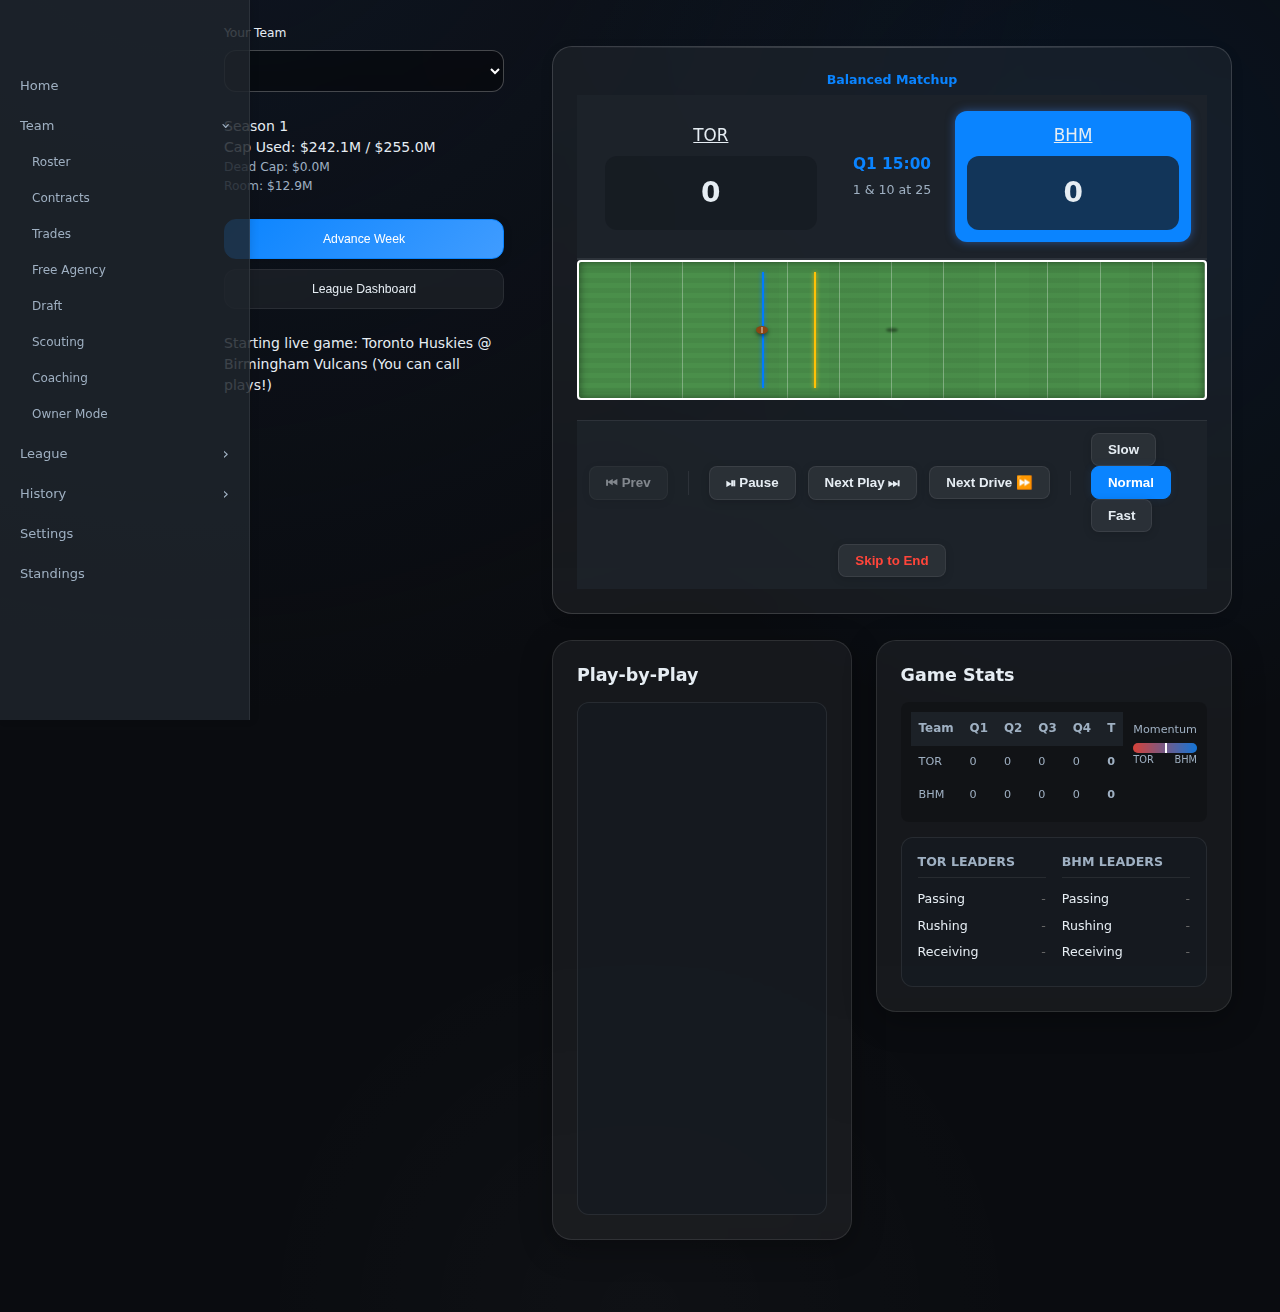
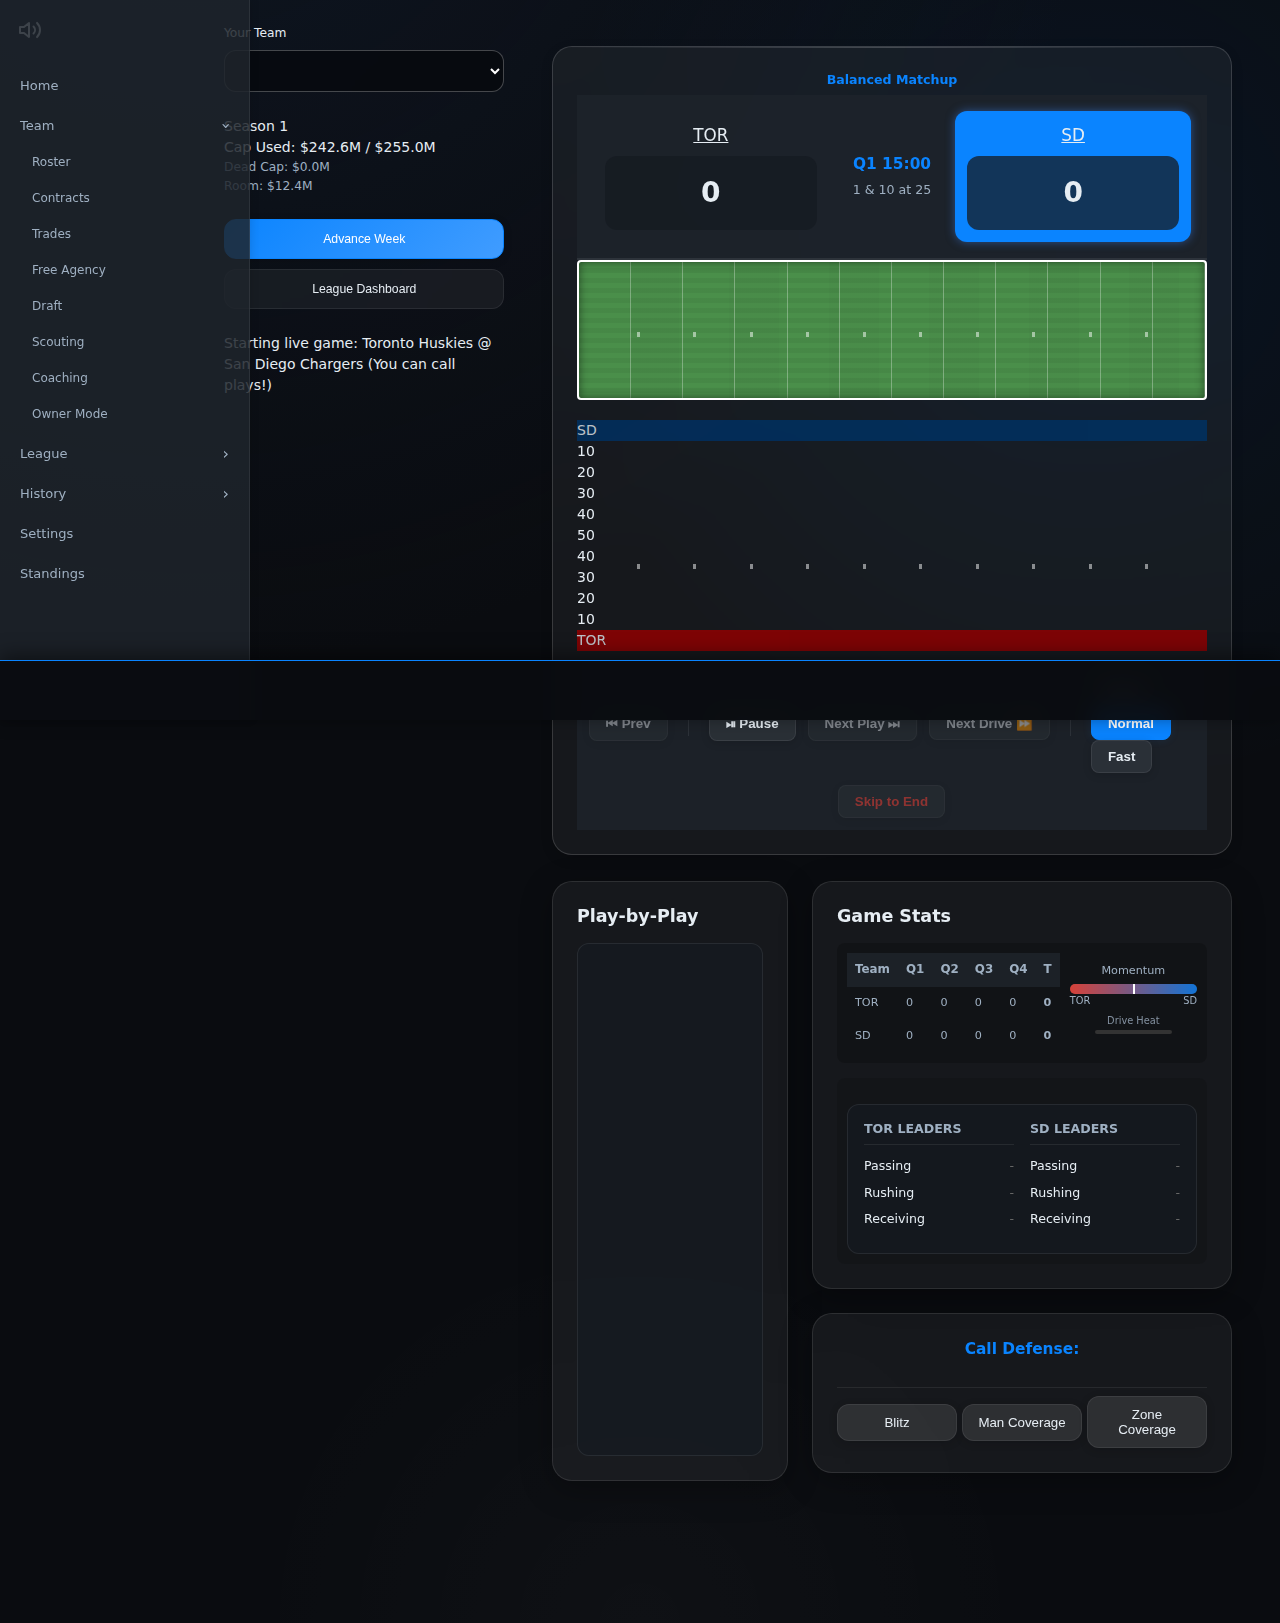
Improve visual polish and feedback in Live Game Viewer
- Added tactile button states with scale and shadow effects.
- Implemented specific visual feedback animations for Touchdowns, Field Goals, Turnovers, and Kicks (flash, celebrate, shield pop).
- Refined game event overlay styles with distinct colors and animations.
- Improved field element transitions using CSS classes for smoother animation and better separation of concerns.
- Standardized `triggerVisualFeedback` calls in `live-game-viewer.js` to match new CSS classes.
- Fixed `race_condition.spec.js` to use correct server port.

diff --git a/ui-enhancements.css b/ui-enhancements.css
@@ -2502,3 +2502,238 @@ body {
 }
 
 /* Ensure animated elements disable transition temporarily via JS, but this base rule handles the 'walk back' */
+
+/* ============================================
+   UI Polish - Tactile Feedback & New Animations
+   ============================================ */
+
+/* Unified Tactile Button Feedback */
+.btn:active,
+.play-call-btn:active,
+.nav-item:active {
+  transform: scale(0.96) translateY(1px) !important;
+  box-shadow: inset 0 2px 5px rgba(0, 0, 0, 0.2) !important;
+  filter: brightness(0.95);
+}
+
+/* Animations for Field Effects */
+@keyframes kick-trail {
+  0% { transform: scale(1); opacity: 0.8; }
+  100% { transform: scale(0.2); opacity: 0; }
+}
+
+@keyframes shield-pop {
+  0% { transform: scale(0.5); opacity: 0; border-width: 0px; }
+  50% { transform: scale(1.2); opacity: 1; border-width: 4px; }
+  100% { transform: scale(1); opacity: 1; border-width: 2px; }
+}
+
+@keyframes goal-celebration {
+  0% { transform: scale(1) rotate(0deg); }
+  25% { transform: scale(1.3) rotate(-10deg); }
+  50% { transform: scale(1.5) rotate(10deg); }
+  75% { transform: scale(1.3) rotate(-10deg); }
+  100% { transform: scale(1) rotate(0deg); }
+}
+
+/* Additional Event Classes */
+.game-event-overlay.defense-stop::before {
+  animation: shield-pop 0.6s cubic-bezier(0.175, 0.885, 0.32, 1.275);
+}
+
+.game-event-overlay.field-goal-made .event-text {
+  animation: goal-celebration 1s ease-out;
+  color: #FFD700;
+  text-shadow: 0 0 20px #FFA500;
+}
+
+/* Additional Game Animations - Added by Day 2 Task */
+@keyframes run-bob {
+  0%, 100% { transform: translate(-50%, -50%); }
+  50% { transform: translate(-50%, -60%); }
+}
+
+.run-bob {
+  animation: run-bob 0.3s infinite ease-in-out;
+}
+
+@keyframes wobble-pass {
+  0% { transform: translate(-50%, -50%) rotate(0deg); }
+  25% { transform: translate(-50%, -50%) rotate(-5deg); }
+  75% { transform: translate(-50%, -50%) rotate(5deg); }
+  100% { transform: translate(-50%, -50%) rotate(0deg); }
+}
+
+.wobble-pass {
+  animation: wobble-pass 0.4s infinite ease-in-out;
+}
+
+@keyframes slide-in-smooth {
+  0% { opacity: 0; transform: translateX(-20px); }
+  100% { opacity: 1; transform: translateX(0); }
+}
+
+.slide-in-smooth {
+  animation: slide-in-smooth 0.5s ease-out forwards;
+}
+
+/* Ensure pulse-score is distinct */
+@keyframes pulse-score-strong {
+  0% { transform: scale(1); color: inherit; }
+  50% { transform: scale(1.5); color: var(--accent); text-shadow: 0 0 20px var(--accent); font-weight: 900; }
+  100% { transform: scale(1); color: inherit; }
+}
+
+.pulse-score-strong {
+  animation: pulse-score-strong 0.6s cubic-bezier(0.175, 0.885, 0.32, 1.275);
+}
+
+/* --- New Player Action Animations --- */
+@keyframes throw-motion {
+  0% { transform: translate(-50%, -50%) rotate(0deg); }
+  25% { transform: translate(-60%, -50%) rotate(-15deg) scale(0.9); } /* Wind up */
+  50% { transform: translate(-40%, -50%) rotate(10deg) scale(1.1); } /* Release */
+  100% { transform: translate(-50%, -50%) rotate(0deg) scale(1); }
+}
+
+.throw-animation {
+  animation: throw-motion 0.5s ease-in-out;
+}
+
+@keyframes kick-follow-through {
+  0% { transform: translate(-50%, -50%) rotate(0deg); }
+  30% { transform: translate(-40%, -50%) rotate(15deg) scale(1.1); }
+  60% { transform: translate(-50%, -50%) rotate(0deg) scale(1); }
+  100% { transform: translate(-50%, -50%); }
+}
+
+.kick-follow-through {
+  animation: kick-follow-through 0.6s ease-out;
+}
+
+/* ============================================
+   Enhanced Visual Feedback (Kick, Goal, Save)
+   ============================================ */
+
+/* Generic Goal Style (Touchdown, Field Goal) */
+.game-event-overlay.goal .event-text {
+  color: #FFD700;
+  text-shadow: 0 0 20px #FFA500, 0 0 40px #FF4500;
+  font-family: 'Arial Black', sans-serif;
+  letter-spacing: 2px;
+  animation: goal-celebration 1s ease-out;
+}
+
+.game-event-overlay.goal::before {
+  content: '🙌'; /* Hands up */
+  display: block;
+  font-size: 5rem;
+  margin-bottom: 10px;
+  animation: popIn 0.5s cubic-bezier(0.175, 0.885, 0.32, 1.275);
+}
+
+/* Specific Kick Style (Punt, Kickoff) */
+.game-event-overlay.kick .event-text {
+  color: #0A84FF;
+  text-shadow: 0 0 15px #0056b3;
+  font-family: 'Arial Black', sans-serif;
+  letter-spacing: 1px;
+}
+
+.game-event-overlay.kick::before {
+  content: '🦶'; /* Foot */
+  display: block;
+  font-size: 4rem;
+  margin-bottom: 10px;
+  animation: kick-flash 0.3s ease-out;
+}
+
+/* Generic Save Style (Turnover, Defense Stop, Safety) */
+.game-event-overlay.save .event-text {
+  color: #FF453A;
+  border: 4px solid #FF453A;
+  background: rgba(0, 0, 0, 0.85);
+  padding: 15px 30px;
+  transform: rotate(-5deg);
+  border-radius: 12px;
+  box-shadow: 0 0 20px rgba(255, 69, 58, 0.6);
+  font-family: 'Courier New', monospace;
+  font-weight: 900;
+}
+
+.game-event-overlay.save::before {
+  content: '🛡'; /* Shield */
+  display: block;
+  font-size: 5rem;
+  margin-bottom: 10px;
+  filter: drop-shadow(0 0 10px rgba(255, 69, 58, 0.5));
+  animation: shield-pop 0.6s cubic-bezier(0.175, 0.885, 0.32, 1.275);
+}
+
+/* Enhancing Button States for tactile feel */
+.control-btn:active, .btn:active {
+  transform: scale(0.96) translateY(1px) !important;
+  box-shadow: inset 0 2px 5px rgba(0,0,0,0.2) !important;
+  filter: brightness(0.95);
+}
+
+.control-btn:hover, .btn:hover {
+  filter: brightness(1.1);
+  transform: translateY(-2px);
+}
+
+/* Fade Out Animation for View Transitions */
+@keyframes fadeOut {
+  from { opacity: 1; transform: translateY(0); }
+  to { opacity: 0; transform: translateY(-10px); }
+}
+
+.fade-out {
+  animation: fadeOut 0.2s ease-out forwards !important;
+  pointer-events: none; /* Prevent clicks during exit */
+}
+
+/* Quarter End Style */
+.game-event-overlay.quarter-end .event-text {
+  color: #fff;
+  text-shadow: 0 0 20px rgba(255, 255, 255, 0.5);
+  font-family: 'Arial Black', sans-serif;
+  letter-spacing: 2px;
+}
+.game-event-overlay.quarter-end::before {
+  content: '⏱';
+  display: block;
+  font-size: 4rem;
+  margin-bottom: 10px;
+}
+
+/* Handoff Animation - QB and RB interaction */
+.handoff-meet {
+    transform: translate(-50%, -50%) scale(0.8) !important;
+    filter: brightness(1.2);
+    transition: transform 0.3s ease-in-out;
+    border-color: #ffd700; /* Gold highlight */
+}
+
+/* Blur Transition */
+.blur-transition {
+    filter: blur(5px);
+    transition: filter 0.3s ease;
+}
+
+/* Huddle Break Animation */
+@keyframes huddle-break {
+    0% { transform: scale(0.5); opacity: 0; }
+    50% { transform: scale(1.1); opacity: 1; }
+    100% { transform: scale(1); opacity: 1; }
+}
+
+.huddle-break {
+    animation: huddle-break 0.5s ease-out;
+}
+
+/* Motion Blur Helper */
+.blur-motion {
+    filter: blur(2px);
+    transition: filter 0.1s;
+}

diff --git a/live-game-viewer.js b/live-game-viewer.js
@@ -472,7 +472,8 @@ class LiveGameViewer {
           // Normal Smooth Update (CSS transition handles it)
           // Ensure transition is active if it was disabled by JS animation previously and not cleared
           if (ballEl.style.transition === 'none') {
-              ballEl.style.transition = 'left 0.6s cubic-bezier(0.22, 1, 0.36, 1)';
+              ballEl.style.transition = ''; // Revert to CSS class transition
+              ballEl.classList.add('smooth-transition');
           }
 
           ballEl.style.left = `${pct}%`;
@@ -2360,7 +2361,7 @@ class LiveGameViewer {
             this.triggerShake('hard');
 
             if (play.result === 'turnover_downs') {
-                this.triggerVisualFeedback('save stop', 'STOPPED!');
+                this.triggerVisualFeedback('save defense-stop', 'STOPPED!');
             } else {
                 this.triggerVisualFeedback('save turnover', 'TURNOVER!');
             }
@@ -2372,7 +2373,7 @@ class LiveGameViewer {
             soundManager.playCrowdGasp();
             this.triggerShake();
             this.triggerFloatText('NO GOOD!', 'bad');
-            this.triggerVisualFeedback('save stop', 'NO GOOD!');
+            this.triggerVisualFeedback('save defense-stop', 'NO GOOD!');
         } else if (play.result === 'sack') {
             soundManager.playSack();
             soundManager.playShockwave();
@@ -2394,7 +2395,7 @@ class LiveGameViewer {
             soundManager.playFieldGoal();
             soundManager.playKick();
             this.triggerFloatText('GOOD!');
-            this.triggerVisualFeedback('goal field-goal', 'FIELD GOAL!');
+            this.triggerVisualFeedback('goal field-goal-made', 'FIELD GOAL!');
             if (launchConfetti) launchConfetti();
         } else if (play.playType === 'punt') {
             soundManager.playKick();
@@ -2415,7 +2416,7 @@ class LiveGameViewer {
              soundManager.playPing();
         } else if (play.result === 'field_goal_miss') {
              soundManager.playFailure();
-             this.triggerVisualFeedback('save stop', 'NO GOOD!');
+             this.triggerVisualFeedback('save defense-stop', 'NO GOOD!');
         } else if (play.result === 'safety') {
              soundManager.playFailure();
              this.triggerVisualFeedback('save safety', 'SAFETY!');

diff --git a/tests/race_condition.spec.js b/tests/race_condition.spec.js
@@ -4,8 +4,8 @@ test('Live Game: Skip to End Race Condition', async ({ page }) => {
   page.on('console', msg => console.log('PAGE LOG:', msg.text()));
   page.on('pageerror', err => console.log('PAGE ERROR:', err.message));
 
-  // 1. Setup Game (Assume server running at localhost:8000)
-  await page.goto('http://localhost:8000/');
+  // 1. Setup Game (Assume server running at localhost:3000)
+  await page.goto('http://localhost:3000/');
 
   // Wait for game controller to initialize
   await page.waitForFunction(() => window.initNewGame, { timeout: 10000 });
